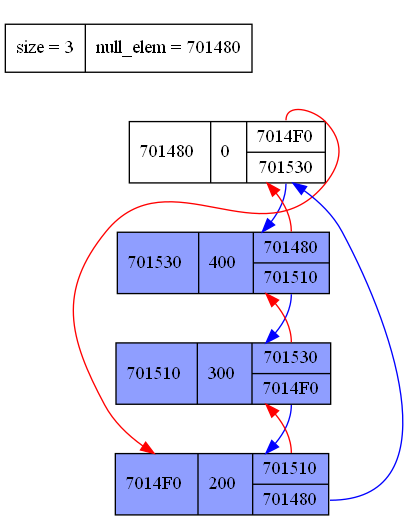
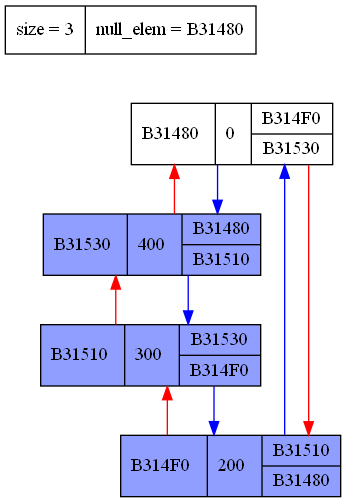
some fixes in graphic dump

diff --git a/List/List.h b/List/List.h
@@ -1,5 +1,5 @@
-#ifndef __SYM_LIST__
-#define __SYM_LIST__
+#ifndef __SYM_CLASSIC_LIST__
+#define __SYM_CLASSIC_LIST__
 
 #include <stdlib.h>
 
@@ -44,39 +44,39 @@ void DumpList(List* list, const char* function, const char* file, int line);
 
 void GraphicDump(List* list);
 
-//!---------------------
-//!@param [in]  list        List for inserting an element
-//!@param [in]  val         Value of new element
-//!@param [in]  after_which Index of element after which put new element
-//!@param [out] index       (Optional).Index in which new element will insert
-//!@return Error code according to Errors.h
-//!
-//!---------------------
 int ListInsert(List* list, ListElem_t value, ListElem* after_which, ListElem** index = nullptr);
 
 int ListRemove(List* list, ListElem* index);
 
 int FindFree(List* list, ListElem** index);
 
-//!-----------------------
-//!Not iterate if index  indicates to the end of the list
-//!index will be -1 if there isn`t next element in list
-//!
-//!-----------------------
 int ListIterate(List* list, ListElem** index);
 
 int ListBegin(List* list, ListElem** index);
 
 int ListEnd(List* list, ListElem** index);
 
-//!---------------------
-//!@param [in]  list        List for searching logical index from physical
-//!@param [in]  phys_index  Physical index
-//!@param [out] log_index   Logical index of element(-1 if element not found)
-//!@return Error code according to Errors.h
-//!
-//!---------------------
-int PhysIndexToLogical(List* list, ListElem* phys_index, ListElem** log_index);
+int LogicalAddresToPhys(List* list, int logic_index, ListElem** physic_index);
+
+int LogicalAddresToPhys(List* list, int logic_index, ListElem** physic_index)
+{
+    ReturnIfError(ListCheck(list));
+
+    CHECK(physic_index == nullptr, "Pointer to physic index = nullptr", -1);
+
+    ListElem* index = list->null_elem;
+    *physic_index = nullptr;
+
+    for(int i = 0; i < logic_index; i++)
+    {
+        ListIterate(list, &index);
+        CHECK(index == nullptr, "Element not found\n", 0);
+    }
+
+    *physic_index = index;
+    
+    return 0;
+}
 
 int ListIterate(List* list, ListElem** index)
 {
@@ -124,6 +124,7 @@ void GraphicDump(List* list)
 
     fprintf(fp, "digraph G{\n");
     fprintf(fp, "node[shape = record, fontsize = 14];\n");
+    fprintf(fp, "splines = ortho\n");
 
     if (list == nullptr || list == POISON_PTR) 
         return;
@@ -152,7 +153,7 @@ void GraphicDump(List* list)
     for(int i = 0; i <= list->size; i++)
     {
         ListElem* prev = index->prev;
-        fprintf(fp, "Node%X:<p> -> Node%X\n", index, prev);
+        fprintf(fp, "Node%X -> Node%X\n", index, prev);
         index = prev;
         if (index == nullptr || index == list->null_elem)
             break;
@@ -163,7 +164,7 @@ void GraphicDump(List* list)
     for(int i = 0; i <= list->size; i++)
     {
         ListElem* next = index->next;
-        fprintf(fp, "Node%X:<n> -> Node%X\n", index, next);
+        fprintf(fp, "Node%X -> Node%X\n", index, next);
         index = next;
         if (index == nullptr || index == list->null_elem)
             break;
@@ -380,4 +381,4 @@ int ListInsert(List* list, ListElem_t value, ListElem* after_which, ListElem** i
     return 0;
 }
 
-#endif //__SYM_LIST__
+#endif //__SYM_CLASSIC_LIST__
